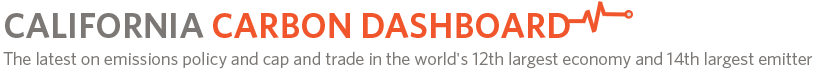
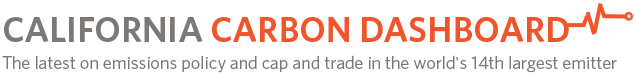
Mostly text fixes

diff --git a/index.html b/index.html
@@ -1,6 +1,7 @@
  <!DOCTYPE HTML PUBLIC "-//W3C//h3D HTML 4.01 Transitional//EN"
 "http://www.w3.org/TR/html4/loose.h3d">
 <html xmlns="http://www.w3.org/1999/xhtml">
+	<link rel = "stylesheet" href = "css/reset.css" type: "text/css" media: "screen">
 	<link rel = "stylesheet" href = "css/stylish.css" type: "text/css" media: "screen">
 	<link rel = "stylesheet" href = "css/tabs.css" type: "text/css" media: "screen">
 	<link rel = "stylesheet" href = "css/grid.css" type: "text/css" media: "screen">
@@ -29,14 +30,14 @@
 		<div class = "container" >
 			<div id = "header">
 	    		<div id = "title"><a class="notext" href="http://climatepolicyinitiative.org/">CPI</a></div>
-	    		<!--<div id = "logo"><a class="notext" href="http://climatepolicyinitiative.org/">CPI</a></div>-->
+	    		<div id = "logo"><a class="notext" href="http://climatepolicyinitiative.org/">CPI</a></div>
         	</div>	
         	<hr>
 			<div class="span-11 colborder">
         		<div id = "pricediv">
 				<h2>CARBON PRICE</h2>
 				<script type="text/javascript" src ="js/prices.js"></script>
-				<p class = "subtext">Price of 2013 California GHG <span title = "An allowance is a tradable permit that allows the emission of one metric ton of CO<sub>2</sub>e." style="color:blue">Allowance</span> Futures as reported by <a href = "https://www.theice.com/productguide/ProductSpec.shtml?specId=6747556#data">ICE</a>. See prices for <a href = "https://www.theice.com/productguide/ProductSpec.shtml?specId=6747556#data">2013</a>, <a href = "https://www.theice.com/productguide/ProductSpec.shtml;jsessionid=4C0CF40265173EAF3661845192076191?specId=6747557#data">2014</a>, <a href = "https://www.theice.com/productguide/ProductSpec.shtml?specId=6747558#data">2015</a>, <a href = "https://www.theice.com/productguide/ProductSpec.shtml?specId=20328818">2016</a>.</p>
+				<p class = "subtext">Price of 2013 California GHG <span class = "tooltip" title = "An allowance is a tradable permit that allows the emission of one metric ton of CO<sub>2</sub>e." style="color:blue">Allowance</span> Futures as reported by <a href = "https://www.theice.com/productguide/ProductSpec.shtml?specId=6747556#data">ICE</a>. See prices for <a href = "https://www.theice.com/productguide/ProductSpec.shtml?specId=6747556#data">2013</a>, <a href = "https://www.theice.com/productguide/ProductSpec.shtml;jsessionid=4C0CF40265173EAF3661845192076191?specId=6747557#data">2014</a>, <a href = "https://www.theice.com/productguide/ProductSpec.shtml?specId=6747558#data">2015</a>, <a href = "https://www.theice.com/productguide/ProductSpec.shtml?specId=20328818">2016</a>.</p>
 
 			</div>
 			</div>
@@ -82,10 +83,10 @@
 			    <div class = "span-7 colborder">
 			    	<h2>CAP AND TRADE</h2>
 					<p>
-						California's <a href = "http://www.arb.ca.gov/cc/capanh3rade/capanh3rade.htm">Cap and Trade Program</a> caps greenhouse gas (GHG) emissions from key sectors in California as a central component of the Assembly Bill 32 (AB32) framework to return California emissions to 1990 levels by 2020. 
+						California&rsquo;s <a href = "http://www.arb.ca.gov/cc/capanh3rade/capanh3rade.htm">Cap and Trade Program</a> caps greenhouse gas (GHG) emissions from key sectors in California as a central component of the Assembly Bill 32 (AB32) framework to return California emissions to 1990 levels by 2020. 
 					</p>
 					<p>	
-						The California Cap and Trade Program is designed to achieve the cheapest emissions reductions across the capped sectors. The Program sets maximum, combined greenhouse gas (GHG) emissions for all covered sectors each year (the “cap”), and allows covered entities to trade GHG <span title="An allowance is a tradable permit that allows the emission of one metric ton of CO<sub>2</sub>e." style="color:blue">allowances</span> (permits). The California carbon price is driven by allowance trading. 
+						The California Cap and Trade Program is designed to achieve cost-effective emissions reductions across the capped sectors. The Program sets maximum, statewide greenhouse gas (GHG) emissions for all covered sectors each year (the &ldquo;cap&rdquo;), and allows covered entities to sell off <span class = "tooltip" title="An allowance is a tradable permit that allows the emission of one metric ton of CO<sub>2</sub>e." style="color:blue">allowances</span> (permits) that they do not need (the &ldquo;trade&rdquo;). The California carbon price is driven by allowance trading. 
 					</p>
 					<p>	
 						The Cap and Trade Program is expected to drive 3.7% of the targeted greenhouse gas reductions by 2020, while complementary carbon policies will achieve the rest. For general information on how cap and trade systems work, check <a href = "http://www.c2es.org/docUploads/climate101-captrade.pdf">this</a> out.
@@ -96,13 +97,32 @@
 			    	<!-- the tabs -->
 				<table class = "tabs" cellspacing="0" cellpadding="0">
 					<tr>
-						<th><a href="#"><h2>EMISSIONS CAP</h2></a></th>
 						<th><a href="#"><h2>COMPLEMENTARY POLICIES</h2></a></th>
+						<th><a href="#"><h2>EMISSIONS CAP</h2></a></th>
 						<th><a href="#"><h2>EMISSIONS HISTORY</h2></a></th>
 					</tr>
 				</table>
 				<!-- tab "panes" -->
 				<div class="panes">
+					<div id = "compdiv">
+							
+								California&rsquo;s cap and trade system is a backstop &#8212; a number of other important policies are in place to achieve the bulk of required emissions reductions.  This graphic shows 2020 business-as-usual greenhouse gas emissions, the contributions of complementary policies, and the 2020 cap. 
+							
+							<script type="text/javascript">
+								var othernames = ["<i>Mouse over to see which policies apply to a given sector.  Click on any policy for more details.</i>", 
+									"The <b>Electricity</b> sector is subject to a renewable portfolio standard and renewable energy standard, which together require 33% of emissions be from renewable sources by 2020.  Currently, small scale distributed generation doesn't count toward this goal, but the governor's Million Solar Roofs program ensures progress is made in distributed generation as well.", 
+									"The <b>Industrial</b> sector is required to conduct energy efficiency audits and share the results with the Air Resources Board.",  
+									"The <b>Transportation</b> sector is affected by a number of policies, including the Pavley Standards, which require significant increases in vehicle fuel efficiency.  Further, the Low Carbon Fuel Standard requires refiners and blenders to source a significant portion of their fuel from renewable sources.",
+									"<b>Commercial and Residential</b> energy efficiency programs are expected to yield nearly 12 MMTCO<sub>2</sub>e in carbon emissions reductions.",
+									"<b>Recycling and Waste</b> is a low-emitting sector, but reduction programs are planned nonetheless.", 
+									"<b>High Global Warming Potential</b> gases are a significant source of emissions today, but policies are designed to nearly eliminate those emissions by 2020.", 
+									"<b>Agriculture</b> emissions aren't addressed by the cap or complementary policies, but offsets protocols may apply.", 
+									"Current <b>Forestry</b> sector emissions are almost nonexistent, but new programs are designed to make them a significant net carbon sink by 2020."
+									];
+								compgraph("csv/inventory_data.csv", othernames, "compdiv");
+							</script>
+							<p class = "subtext">Source: The California Air Resources Board's <a href = "http://www.arb.ca.gov/cc/scopingplan/sp_measures_implementation_timeline.pdf">Status of Scoping Plan Recommended Measures</a>.</p>
+					</div>
 					<div id = "allodiv">
 							
 								This graphic shows projected business-as-usual emissions through 2020 for capped and uncapped sectors. The overlaid line indicates the cap for each year. 
@@ -121,25 +141,6 @@
 								bargraph("csv/projection_data.csv", allocation, "allodiv");
 							</script>
 							<p class = "subtext">Source: Annual figures are linearly interpolated based on the California Air Resources Board's <a href = "http://www.arb.ca.gov/cc/inventory/inventory.htm">Greenhouse Gas Emissions Inventory</a> and <a href = "http://www.arb.ca.gov/cc/inventory/data/forecast.htm">2020 Emissions Forecast</a>.</p>
-					</div>
-					<div id = "compdiv">
-							
-								California's cap and trade system is a backstop &#8212; a number of other important policies are in place to achieve the bulk of required emissions reductions.  This graphic shows 2020 business-as-usual greenhouse gas emissions, the contributions of complementary policies, and the 2020 cap. 
-							
-							<script type="text/javascript">
-								var othernames = ["<i>Mouse over to see which policies apply to a given sector.  Click on any policy for more details.</i>", 
-									"The <b>Electricity</b> sector is subject to a renewable portfolio standard and renewable energy standard, which together require 33% of emissions be from renewable sources by 2020.  Currently, small scale distributed generation doesn't count toward this goal, but the governor's Million Solar Roofs program ensures progress is made in distributed generation as well.", 
-									"The <b>Industrial</b> sector is required to conduct energy efficiency audits and share the results with the Air Resources Board.",  
-									"The <b>Transportation</b> sector is affected by a number of policies, including the Pavley Standards, which require significant increases in vehicle fuel efficiency.  Further, the Low Carbon Fuel Standard requires refiners and blenders to source a significant portion of their fuel from renewable sources.",
-									"<b>Commercial and Residential</b> energy efficiency programs are expected to yield nearly 12 MMTCO<sub>2</sub>e in carbon emissions reductions.",
-									"<b>Recycling and Waste</b> is a low-emitting sector, but reduction programs are planned nonetheless.", 
-									"<b>High Global Warming Potential</b> gases are a significant source of emissions today, but policies are designed to nearly eliminate those emissions by 2020.", 
-									"<b>Agriculture</b> emissions aren't addressed by the cap or complementary policies, but offsets protocols may apply.", 
-									"Current <b>Forestry</b> sector emissions are almost nonexistent, but new programs are designed to make them a significant net carbon sink by 2020."
-									];
-								compgraph("csv/inventory_data.csv", othernames, "compdiv");
-							</script>
-							<p class = "subtext">Source: The California Air Resources Board's <a href = "http://www.arb.ca.gov/cc/scopingplan/sp_measures_implementation_timeline.pdf">Status of Scoping Plan Recommended Measures</a>.</p>
 					</div>
 					<div id = "histdiv">
 							
@@ -165,7 +166,7 @@
 		    <hr>
 		    <h2>CAP AND TRADE PROGRAM DETAILS</h2>
             <p>
-            The Cap and Trade Program <a href = "http://www.arb.ca.gov/cc/capanh3rade/guidance/chapter2.pdf">covers</a> the power and industrial sectors starting in 2013 and will expand to cover transportation fuels in 2015. The California Air Resources Board (<a href = "http://www.arb.ca.gov">auctions</a> allowances to covered entities. Electric utilities and some industrial emitters receive <a href = "http://www.arb.ca.gov/cc/capanh3rade/allowanceallocation/allowanceallocation.htm">CARB</a>) <a href = "http://www.arb.ca.gov/cc/capanh3rade/auction/auction.htm">auctions</a> allowances to covered entities. Electric utilities and some industrial emitters receive <a href = "http://www.arb.ca.gov/cc/capanh3rade/allowanceallocation/allowanceallocation.htm">freely allocated</a> allowances. Free allocation decreases over time. Regulated entities can also meet 8% of their obligations by buying <a href = "http://www.arb.ca.gov/cc/capanh3rade/offsets/offsets.htm#protocols">CARB-approved offsets</a> — emissions reductions from uncapped sectors.
+            The Cap and Trade Program <a href = "http://www.arb.ca.gov/cc/capanh3rade/guidance/chapter2.pdf">covers</a> the power and industrial sectors starting in 2013 and will expand to cover natural gas and transportation fuels in 2015. Once fully in effect, the program will cover roughly 85% of California&rsquo;s GHG emissionsThe California Air Resources Board <a href = "http://www.arb.ca.gov">auctions</a> allowances to covered entities.  Electric utilities and some industrial emitters receive <a href = "http://www.arb.ca.gov/cc/capanh3rade/allowanceallocation/allowanceallocation.htm">freely allocated</a> allowances. Free allocation decreases over time. Regulated entities can also meet 8% of their obligations by buying <a href = "http://www.arb.ca.gov/cc/capanh3rade/offsets/offsets.htm#protocols">CARB-approved offsets</a> &mdash; emissions reductions from uncapped sectors.
             </p>
             <div id = "accordion">
                 <h3><a href = "">Allowance Allocation</a></h3>
@@ -180,43 +181,43 @@
                 <tr>
                     <td>Free Allocation:</td>
                     <td>
-                        <p>Electricity Utilities – All utility allowances are allocated freely to protect ratepayers from rate shocks. Utilities must use the value associated the allowances to benefit ratepayers.</p>
-                        <p>Industry Sectors – Allocation determined according to <a href = "http://www.fas.org/sgp/crs/misc/R40100.pdf">leakage</a> prevention and sector transition assistance needs. </p>
-                        <p class = "subtext">For more details, see CARB’s <a href = 'http://www.arb.ca.gov/cc/capanh3rade/allowanceallocation/allowanceallocation.htm'>allowance allocation</a> page  and Regulatory Guidance Document <a href = "http://www.arb.ca.gov/cc/capanh3rade/guidance/chapter5.pdf#page=7" >Section 5.4.1</a></p class = "subtext">
+                        <p>Electricity Utilities &mdash; All utility allowances are allocated freely to protect ratepayers from rate shocks. Utilities must use the value associated the allowances to benefit ratepayers.</p>
+                        <p>Industry Sectors &mdash; Allocation determined according to <a href = "http://www.fas.org/sgp/crs/misc/R40100.pdf">leakage</a> prevention and sector transition assistance needs. </p>
+                        <p class = "subtext">For more details, see CARB&rsquo;s <a href = 'http://www.arb.ca.gov/cc/capanh3rade/allowanceallocation/allowanceallocation.htm'>allowance allocation</a> page  and Regulatory Guidance Document <a href = "http://www.arb.ca.gov/cc/capandtrade/guidance/20130419%20Guidance%20Document%20Ch%203%20posting.pdf#page=5">Section 3.5</a></p class = "subtext">
                             </td>
                             </tr>
                             <tr>
-                            <td>Auction: </td>
+                            <td>Auction&#58; </td>
                             <td>
                             <p>CARB holds two allowance auctions quarterly:</p>
                             <ul>
                             <li>Current Auctions offer current and previous year vintages.</li>
                             <li>Advance Auctions offer vintages of the subsequent calendar years.</li>
                             </ul>
-                            <p>Entities submit bids in a single-round, sealed-bid auction format. Allowances are awarded to entities starting with the highest bids until all available allowances are exhausted. The “settlement price” is lowest price at which the allowance supply is exhausted. All entities will pay the settlement price or auction reserve price (see below)—whichever is highest—for their awarded allowances. </p>
+                            <p>Entities submit bids in a single-round, sealed-bid auction format. Allowances are awarded to entities starting with the highest bids until all available allowances are exhausted. The “settlement price” is lowest price at which the allowance supply is exhausted. All entities will pay the settlement price or auction reserve price (see below) &mdash; whichever is highest &mdash; for their awarded allowances. </p>
                             <p class = "subtext">See <a href = "http://www.arb.ca.gov/cc/capanh3rade/guidance/chapter5.pdf#page=2">here</a> for more details on auction procedures and <a href = "http://www.arb.ca.gov/cc/capanh3rade/auction/auction.htm">here</a> for further details and auction schedule updates. </p>
                             </td>
                             </tr>
                             <tr>
                             <td>Auction Reserve Price: </td>
                             <td>
-                            <p>For each auction, CARB sets an Auction Reserve Price—a minimum price below which allowances cannot be sold at auction. The Regulation (<a href = "http://www.arb.ca.gov/cc/capanh3rade/ct_rf_april2013.pdf#page=135">§ 95911</a>) set the first 2012 Auction Reserve Price at $10/allowance for both the current and advanced auctions. The Auction Reserve Price increases annually by 5% plus the rate of inflation (Consumer Price Index for All Urban Consumers). </p>
+                            <p>For each auction, CARB sets an Auction Reserve Price &mdash; a minimum price below which allowances cannot be sold at auction. The Regulation (<a href = "http://www.arb.ca.gov/cc/capanh3rade/ct_rf_april2013.pdf#page=135">&#167; 95911</a>) set the first 2012 Auction Reserve Price at $10/allowance for both the current and advanced auctions. The Auction Reserve Price increases annually by 5% plus the rate of inflation (Consumer Price Index for All Urban Consumers). </p>
                             
-                            <p class = "subtext">For more details, see CARB’s Regulatory Guidance Document <a href = "http://www.arb.ca.gov/cc/capanh3rade/guidance/chapter5.pdf#page=7">Section 5.4.1</a></p>
+                            <p class = "subtext">For more details, see CARB&rsquo;s Regulatory Guidance Document <a href = "http://www.arb.ca.gov/cc/capanh3rade/guidance/chapter5.pdf#page=7">Section 5.1.4</a></p>
                             </td>
                             </tr>
                             <tr>
                             <td>Allowance Price Containment Reserve:  </td>
                             <td>
                             <p>CARB sets a designated number of allowances from each compliance period budget into the Allowance Price Containment Reserve (the reserve).The reserve is designed to reduce the risk of higher-than-expected allowance prices. </p>
-                            <p>ACPR allowance volumes by compliance period:</p>
+                            <p>APCR allowance volumes by compliance period:</p>
                             <ul>
-                            <li>2013-2014: 1% of allowance budget</li>
-                            <li>2015-2017: 4% of allowance budget</li>
-                            <li>2018-2020: 7% of allowance budget</li>
+                            <li>2013-2014&#58; 1% of allowance budget</li>
+                            <li>2015-2017&#58; 4% of allowance budget</li>
+                            <li>2018-2020&#58; 7% of allowance budget</li>
                             </ul>
-                            <p>Allowances in the reserve are available for purchase quarterly at three tiers of pre-established prices that increase annually by 5% plus rate of inflation (Consumer Price Index for All Urban Consumers).</p> 
-                            <p class = "subtext">For more details, see CARB’s Regulatory Guidance Document <a href = "http://www.arb.ca.gov/cc/capanh3rade/guidance/chapter5.pdf#page=22">Section 5.2.2</a>. See <a href = "http://nicholasinstitute.duke.edu/sites/default/files/publications/allowance-price-containment-options-for-cap-and-trade-legislation-paper.pdf">here</a> for general information on cost containment mechanisms.</p class = "subtext">
+                            <p>Allowances in the reserve are available for purchase quarterly at three tiers of pre-established prices that increase annually by 5% plus rate of inflation (Consumer Price Index for All Urban Consumers). In 2013, APCR tiers are priced at $40, $45, and $50.</p> 
+                            <p class = "subtext">For more details, see CARB&rsquo;s Regulatory Guidance Document <a href = "http://www.arb.ca.gov/cc/capanh3rade/guidance/chapter5.pdf#page=22">Section 5.2.2</a>. See <a href = "http://nicholasinstitute.duke.edu/sites/default/files/publications/allowance-price-containment-options-for-cap-and-trade-legislation-paper.pdf">here</a> for general information on cost containment mechanisms.</p class = "subtext">
                             </td>
                             </tr>
                             </table>
@@ -230,7 +231,7 @@
                 <td>
 				<p>2013-2020: Electric utilities and large industrial facilities</p>
 				<p>2015-2020:	Distributors of transportation fuels, natural gas, and other fuels</p>
-				<p class = "subtext">For more details on covered sectors, see CARB’s Regulatory Guidance Document <a href = "http://www.arb.ca.gov/cc/capanh3rade/guidance/chapter2.pdf">Section 2.0</a href = "http://www.arb.ca.gov/cc/capanh3rade/guidance/chapter2.pdf">.  CARB also maintains a <a href = "http://www.arb.ca.gov/cc/capanh3rade/covered_entities_011013_v2.xlsx">current list of covered entities</a>.</p class = "subtext">
+				<p class = "subtext">For more details on covered sectors, see CARB&rsquo;s Regulatory Guidance Document <a href = "http://www.arb.ca.gov/cc/capanh3rade/guidance/chapter2.pdf">Section 2.0</a href = "http://www.arb.ca.gov/cc/capanh3rade/guidance/chapter2.pdf">.  CARB also maintains a <a href = "http://www.arb.ca.gov/cc/capanh3rade/covered_entities_011013_v2.xlsx">current list of covered entities</a>.</p class = "subtext">
                 </td>
                 </tr>
                 <tr>
@@ -238,10 +239,10 @@
 				Individual Emitters:
                 </td>
                 <td>
-				<ul>
-                <li>Generally, facilities that exceed annual emissions 25,000 metric tons of CO<sub>2</sub>e (according to <a href = "http://www.arb.ca.gov/cc/reporting/ghg-rep/ghg-rep.htm">mandatory GHG emissions reporting</a>) are covered by the program.</li>
-                <li>As of 2015, all emissions from electricity-importers are covered (i.e., no threshold).</li>
-				</ul>
+				<p>
+                Generally, facilities that exceed annual emissions 25,000 metric tons of CO<sub>2</sub>e (according to <a href = "http://www.arb.ca.gov/cc/reporting/ghg-rep/ghg-rep.htm">mandatory GHG emissions reporting</a>) are covered by the program.
+                As of 2015, all emissions from electricity-importers are covered (i.e., no threshold).
+				</p>
 				<p>The following parties are required to participate in the Cap and Trade Program:</p>
 				<ul>
                 <li>Operators of facilities</li>
@@ -250,7 +251,7 @@
                 <li>Fuel suppliers and distributors</li>
                 <li>Carbon dioxide suppliers </li>
 				</ul>
-				<p class = "subtext">For full details, see the Regulation (<a href = "http://www.arb.ca.gov/cc/capanh3rade/ct_rf_april2013.pdf#page=50">§ 95811</a>)</p>
+				<p class = "subtext">For full details, see the Regulation (<a href = "http://www.arb.ca.gov/cc/capanh3rade/ct_rf_april2013.pdf#page=50">&#167; 95811</a>)</p>
                 </td>
                 </tr>
                 <tr>
@@ -279,14 +280,14 @@
                 <li>Each year, entities must submit allowances for at least 30% of covered emissions from the previous year. </li>
                 <li>The year after the end of a compliance period, entities must submit allowances for remaining covered emissions for the period. </li>
 				</ul>
-				<p class = "subtext">For further details, see CARB’s Regulatory Guidance <a href = "http://www.arb.ca.gov/cc/capanh3rade/guidance/20130419%20Guidance%20Document%20Ch%203%20posting.pdf#page=6">Section 3.6.2</a>.</p>
+				<p class = "subtext">For further details, see CARB&rsquo;s Regulatory Guidance <a href = "http://www.arb.ca.gov/cc/capanh3rade/guidance/20130419%20Guidance%20Document%20Ch%203%20posting.pdf#page=6">Section 3.6.2</a>.</p>
                 </td>
                 </tr>
                 <tr>
                 <td>Banking: </td>
                 <td>
-				<p>Covered entities can save (“bank”) allowances for purposes of future compliance to guard against shortages or price swings. They cannot submit future year allowances for compliance with a previous year (i.e., “borrow” future vintage year allowances).</p>
-				<p class = "subtext">For further details, see CARB’s Regulatory Guidance <a href = 'http://www.arb.ca.gov/cc/capanh3rade/guidance/chapter5.pdf#page=17'>Section 5.1.8.</a href = 'http://www.arb.ca.gov/cc/capanh3rade/guidance/chapter5.pdf#page=17'> </p>
+				<p>Covered entities can save (&ldquo;bank&rdquo;) allowances for purposes of future compliance to guard against shortages or price swings. They cannot submit future year allowances for compliance with a previous year (i.e., &ldquo;borrow&rdquo; future vintage year allowances).</p>
+				<p class = "subtext">For further details, see CARB&rsquo;s Regulatory Guidance <a href = 'http://www.arb.ca.gov/cc/capanh3rade/guidance/chapter5.pdf#page=17'>Section 5.1.8.</a href = 'http://www.arb.ca.gov/cc/capanh3rade/guidance/chapter5.pdf#page=17'> </p>
                 </td>
                 </tr>
                 </table>
@@ -309,7 +310,7 @@
                 <li><a href = "http://www.arb.ca.gov/regact/2010/capanh3rade10/copusforest.pdf">U.S. Forest Projects Compliance Offset Protocol</a href = "http://www.arb.ca.gov/regact/2010/capanh3rade10/copusforest.pdf"></li>
                 <li><a href = "http://www.arb.ca.gov/regact/2010/capanh3rade10/copurbanforestfin.pdf">Urban Forest Projects Compliance Offset Protocol</a href = "http://www.arb.ca.gov/regact/2010/capanh3rade10/copurbanforestfin.pdf"></li>
                 <li><a href = "http://www.arb.ca.gov/regact/2010/capanh3rade10/coplivestockfin.pdf">Livestock Projects Compliance Offset Protocol</a href = "Livestock Projects Compliance Offset Protocol "> </li>
-                <li><a href = "http://www.arb.ca.gov/regact/2010/capanh3rade10/copodsfin.pdf">ODS Compliance Offset Protocol</a href = "http://www.arb.ca.gov/regact/2010/capanh3rade10/copodsfin.pdf"> </li>
+                <li><a href = "http://www.arb.ca.gov/regact/2010/capanh3rade10/copodsfin.pdf">Ozone Depleting Substance Compliance Offset Protocol</a href = "http://www.arb.ca.gov/regact/2010/capanh3rade10/copodsfin.pdf"> </li>
 				</ul>
 				<p>CARB is currently considering several additional protocols, which would allow additional offset types to generate credits.</p>
                 
@@ -324,9 +325,9 @@
                 <table>
                 </tr>
                 <tr>
-                <td>Quebéc:</td>
+                <td>Qu&eacute;bec:</td>
                 <td>
-				<p>California’s cap and trade program will link to the Province of Quebéc’s cap and trade program on January 1, 2014.</p>
+				<p>California&rsquo;s cap and trade program will link to the Province of Qu&eacute;bec&rsquo;s cap and trade program on January 1, 2014.</p>
 				<p class = "subtext">See <a href = "http://www.arb.ca.gov/cc/capanh3rade/linkage/linkage.htm">here</a href = "http://www.arb.ca.gov/cc/capanh3rade/linkage/linkage.htm"> for details.</p class = "subtext">
                 
                 </td>

diff --git a/css/reset.css b/css/reset.css
@@ -1,0 +1,65 @@
+/* --------------------------------------------------------------
+
+   reset.css
+   * Resets default browser CSS.
+
+-------------------------------------------------------------- */
+
+html {
+  margin:0;
+  padding:0;
+  border:0;
+}
+
+body, div, span, object, iframe,
+h1, h2, h3, h4, h5, h6, p, blockquote, pre,
+a, abbr, acronym, address, code,
+del, dfn, em, img, q, dl, dt, dd, ol, ul, li,
+fieldset, form, label, legend,
+table, caption, tbody, tfoot, thead, tr, th, td,
+article, aside, dialog, figure, footer, header,
+hgroup, nav, section {
+  margin: 0;
+  padding: 0;
+  border: 0;
+  font-size: 100%;
+  font: inherit;
+  vertical-align: baseline;
+}
+
+/* This helps to make newer HTML5 elements behave like DIVs in older browers */
+article, aside, details, figcaption, figure, dialog,
+footer, header, hgroup, menu, nav, section {
+    display:block;
+}
+
+/* Line-height should always be unitless! */
+body {
+  line-height: 1.5;
+  background: white;
+}
+
+/* Tables still need 'cellspacing="0"' in the markup. */
+table {
+  border-collapse: separate;
+  border-spacing: 0;
+}
+/* float:none prevents the span-x classes from breaking table-cell display */
+caption, th, td {
+  text-align: left;
+  font-weight: normal;
+  float:none !important;
+}
+table, th, td {
+  vertical-align: middle;
+}
+
+/* Remove possible quote marks (") from <q>, <blockquote>. */
+blockquote:before, blockquote:after, q:before, q:after { content: ''; }
+blockquote, q { quotes: "" ""; }
+
+/* Remove annoying border on linked images. */
+a img { border: none; }
+
+/* Remember to define your own focus styles! */
+:focus { outline: 0; }

diff --git a/css/dashboard.css b/css/dashboard.css
@@ -7,7 +7,7 @@
 }
 
 #title {
-	width:816px; 
+	width:635px; 
 	height:70px; 
 	background:url('img/California-Carbon-Price-Dashboard-Header-Left.png') no-repeat left center; 
 	float:left; 
@@ -16,7 +16,7 @@
 
 #logo a { 
 	width:133px; 
-	height:121px; 
+	height:70px; 
 	margin-right: 10px; 
 	background:url('img/California-Carbon-Price-Dashboard-Header-Right.png') no-repeat right center; 
 	float:right; 
@@ -47,4 +47,3 @@
 .panes {
 	height: 37em;
 }
-

diff --git a/css/grid.css b/css/grid.css
@@ -15,6 +15,7 @@
 .container {
   width: 950px;
   margin: 0 auto;
+  
 }
 
 /* Use this class on any .span / container to see the grid. */
